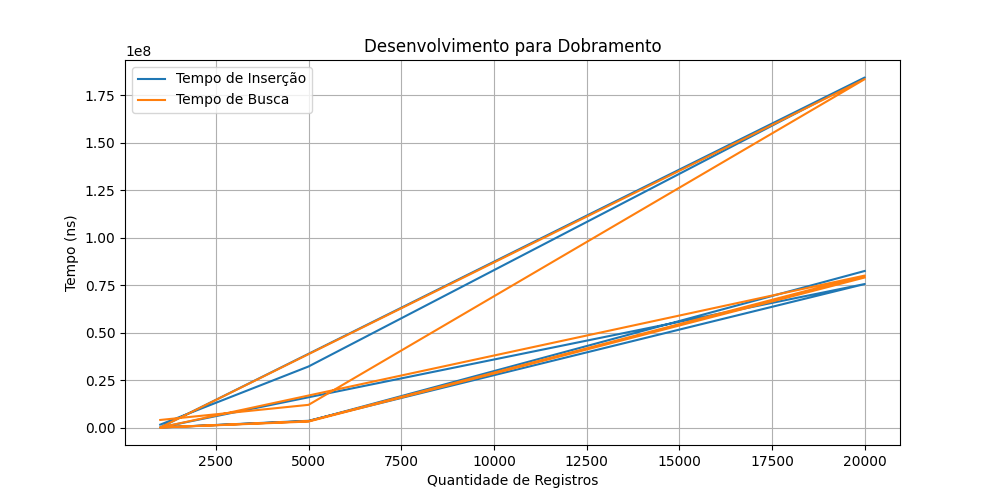
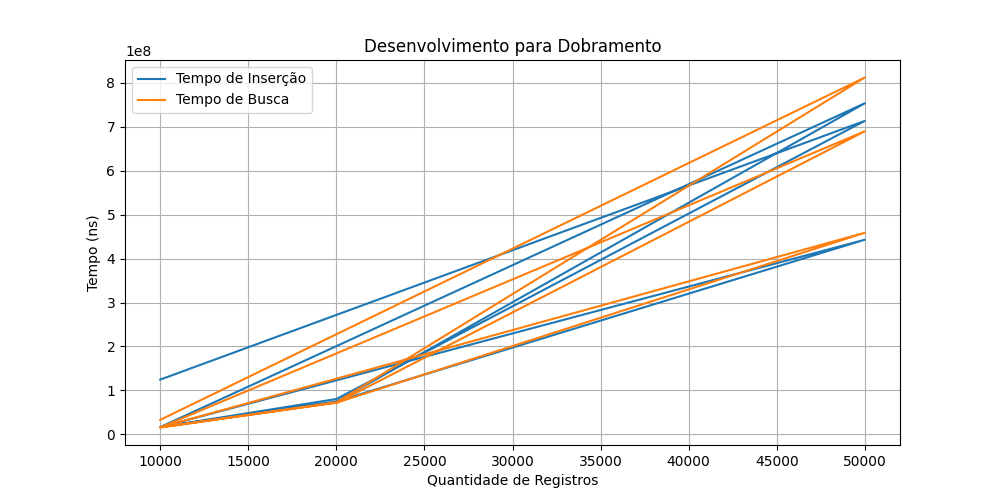
Commit com tudo feito e os valores que não dão errado

diff --git a/hash/src/TabelaHashTeste.java b/hash/src/TabelaHashTeste.java
@@ -78,10 +78,14 @@ class TabelaHash {
     public int hashDobramento(String codigo, int tamanho) {
         int hash = 0;
         for (int i = 0; i < codigo.length(); i++) {
-            hash += Character.getNumericValue(codigo.charAt(i));
+            int valor = Character.digit(codigo.charAt(i), 10);
+            if (valor != -1) {
+                hash = (hash + valor) % tamanho;
+            }
         }
-        return hash % tamanho;
+        return hash;
     }
+    
 
     public int getColisoes() {
         return colisoes;
@@ -155,9 +159,9 @@ public class TabelaHashTeste {
     }
 
     public static void main(String[] args) {
-        int[] tamanhos = {10, 100, 1000}; // Tamanhos da tabela
+        int[] tamanhos = {1000, 2000, 5000}; // Tamanhos da tabela
         long seed = 12345; // Semente para gerar dados aleatórios
-        int[] quantidades = {1000, 5000, 20000}; // Tamanhos dos dados
+        int[] quantidades = {10000, 50000, 20000}; // Tamanhos dos dados
         String arquivoCSV = "resultados.csv";
 
         // Criar arquivo CSV e adicionar cabeçalho
